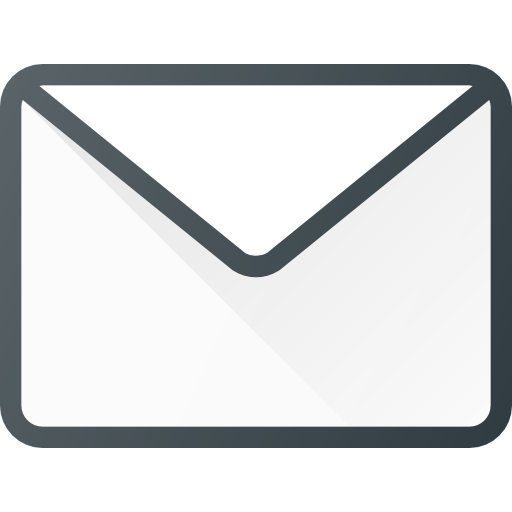
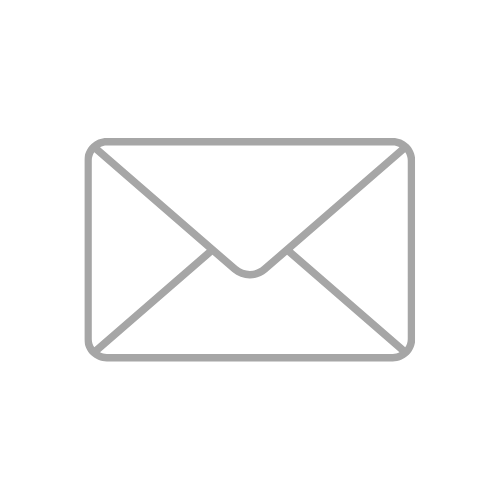
better images

Changed region(s): [[0.0, 0.12, 1.0, 0.9]]

diff --git a/src/components/contact/Contact.js b/src/components/contact/Contact.js
@@ -5,6 +5,7 @@ import './Contact.css'
 import linkedIn from '../../img/linkedin.png'
 import envelope from '../../img/envelope.png'
 import location from '../../img/location.png'
+import mobile from '../../img/mobile.png'
 
 
 function Contact() {
@@ -20,7 +21,7 @@ function Contact() {
                 <div className='row'>
 
                     <div>
-                        <p>MOBILE</p>
+                        <img src={mobile} alt="" />
                         <h3>+49(0) 174-178-7629</h3>
                     </div>
 
@@ -34,7 +35,7 @@ function Contact() {
 
                     <div>
                         <a href="https://www.google.com/maps/place/Leipzig/@49.7504938,4.2953309,6.01z/data=!4m5!3m4!1s0x47a6f818200f2c73:0x93df80d2b9b4f552!8m2!3d51.3396955!4d12.3730747" target="_blank"><img src={location} alt="" /></a>
-                        <p>Leipzig, Germany</p>
+                        <h3>Leipzig, Germany</h3>
                     </div>
 
                 </div>

diff --git a/src/App.css b/src/App.css
@@ -1,7 +1,13 @@
+ /*Globals*/
  * {
    margin: 0;
    padding: 0;
    font-family: 'Segoe UI', Tahoma, Geneva, Verdana, sans-serif;
+   /* box-sizing: border-box; */
+ }
+
+ html {
+   font-size:16px;
  }
 
 

diff --git a/src/components/contact/Contact.css b/src/components/contact/Contact.css
@@ -27,8 +27,8 @@
       padding-top: 3rem;
     }
     
-    .row a, img{
-      height: 60px;
+    .row img{
+      height: 80px;
     }
     
     .row p {
